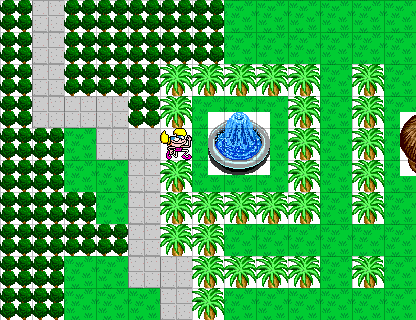
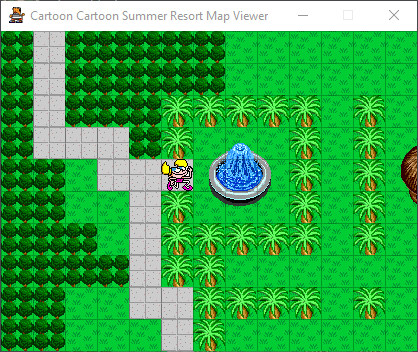
Fixed transparency for sprites

diff --git a/viewer.py b/viewer.py
@@ -106,6 +106,12 @@ def jsonLoadTileData(data):
 
     return tiles
 
+def convertWhiteToAlpha(surface):
+    # replace white pixels with transparent
+    arr = pygame.PixelArray(surface)
+    arr.replace((255, 255, 255), (255, 255, 255, 0))
+    del arr
+
 def renderTileData(screen, tileData):
     # clear screen
     bgcolor = (255, 255, 255) # white
@@ -116,9 +122,12 @@ def renderTileData(screen, tileData):
         try:
             (x, y, tileWidth, tileHeight) = (tile["#location"][0], tile["#location"][1],
                                             tile["#width"], tile["#height"])
-            
+
+            s = pygame.Surface((tileWidth, tileHeight), pygame.SRCALPHA)
+
             sprite = None
             try:
+                # load sprite image
                 sprite = pygame.image.load('tiles/episode1/' + tile["#member"] + '.png')
             except:
                 pass
@@ -127,16 +136,23 @@ def renderTileData(screen, tileData):
             if sprite == None:
                 rect = (16*x, 16*y, tileWidth, tileHeight)
                 color = (255, 32, 32) # red
-                pygame.draw.rect(screen, color, rect)
+                pygame.draw.rect(s, color, rect)
                 continue
             
             # draw sprite
             if "tile" in tile["#member"] or "Tile" in tile["#member"]:
                 for i in list(range(round(tileWidth/32))):
                     for j in list(range(round(tileHeight/32))):
-                            screen.blit(sprite, (16*x + i*32, 16*y + j*32))
-            else:
-                screen.blit(sprite, (16*x - 16, 16*y - 16))
+                            s.blit(sprite, (i*32, j*32))
+                convertWhiteToAlpha(s)
+                screen.blit(s, (16*x, 16*y))
+                continue
+
+            s.blit(sprite, (0, 0))
+            convertWhiteToAlpha(s)
+
+            screen.blit(s, (16*x - 16, 16*y - 16))
+            
         except:
             continue
 

diff --git a/changelog.md b/changelog.md
@@ -1,5 +1,7 @@
 # Changelog
-## v0.2.1
+## v0.3.0
+March 5, 2022
+* Sprites now render with transparency
 * Added window title and icon
 
 ## v0.2.0
